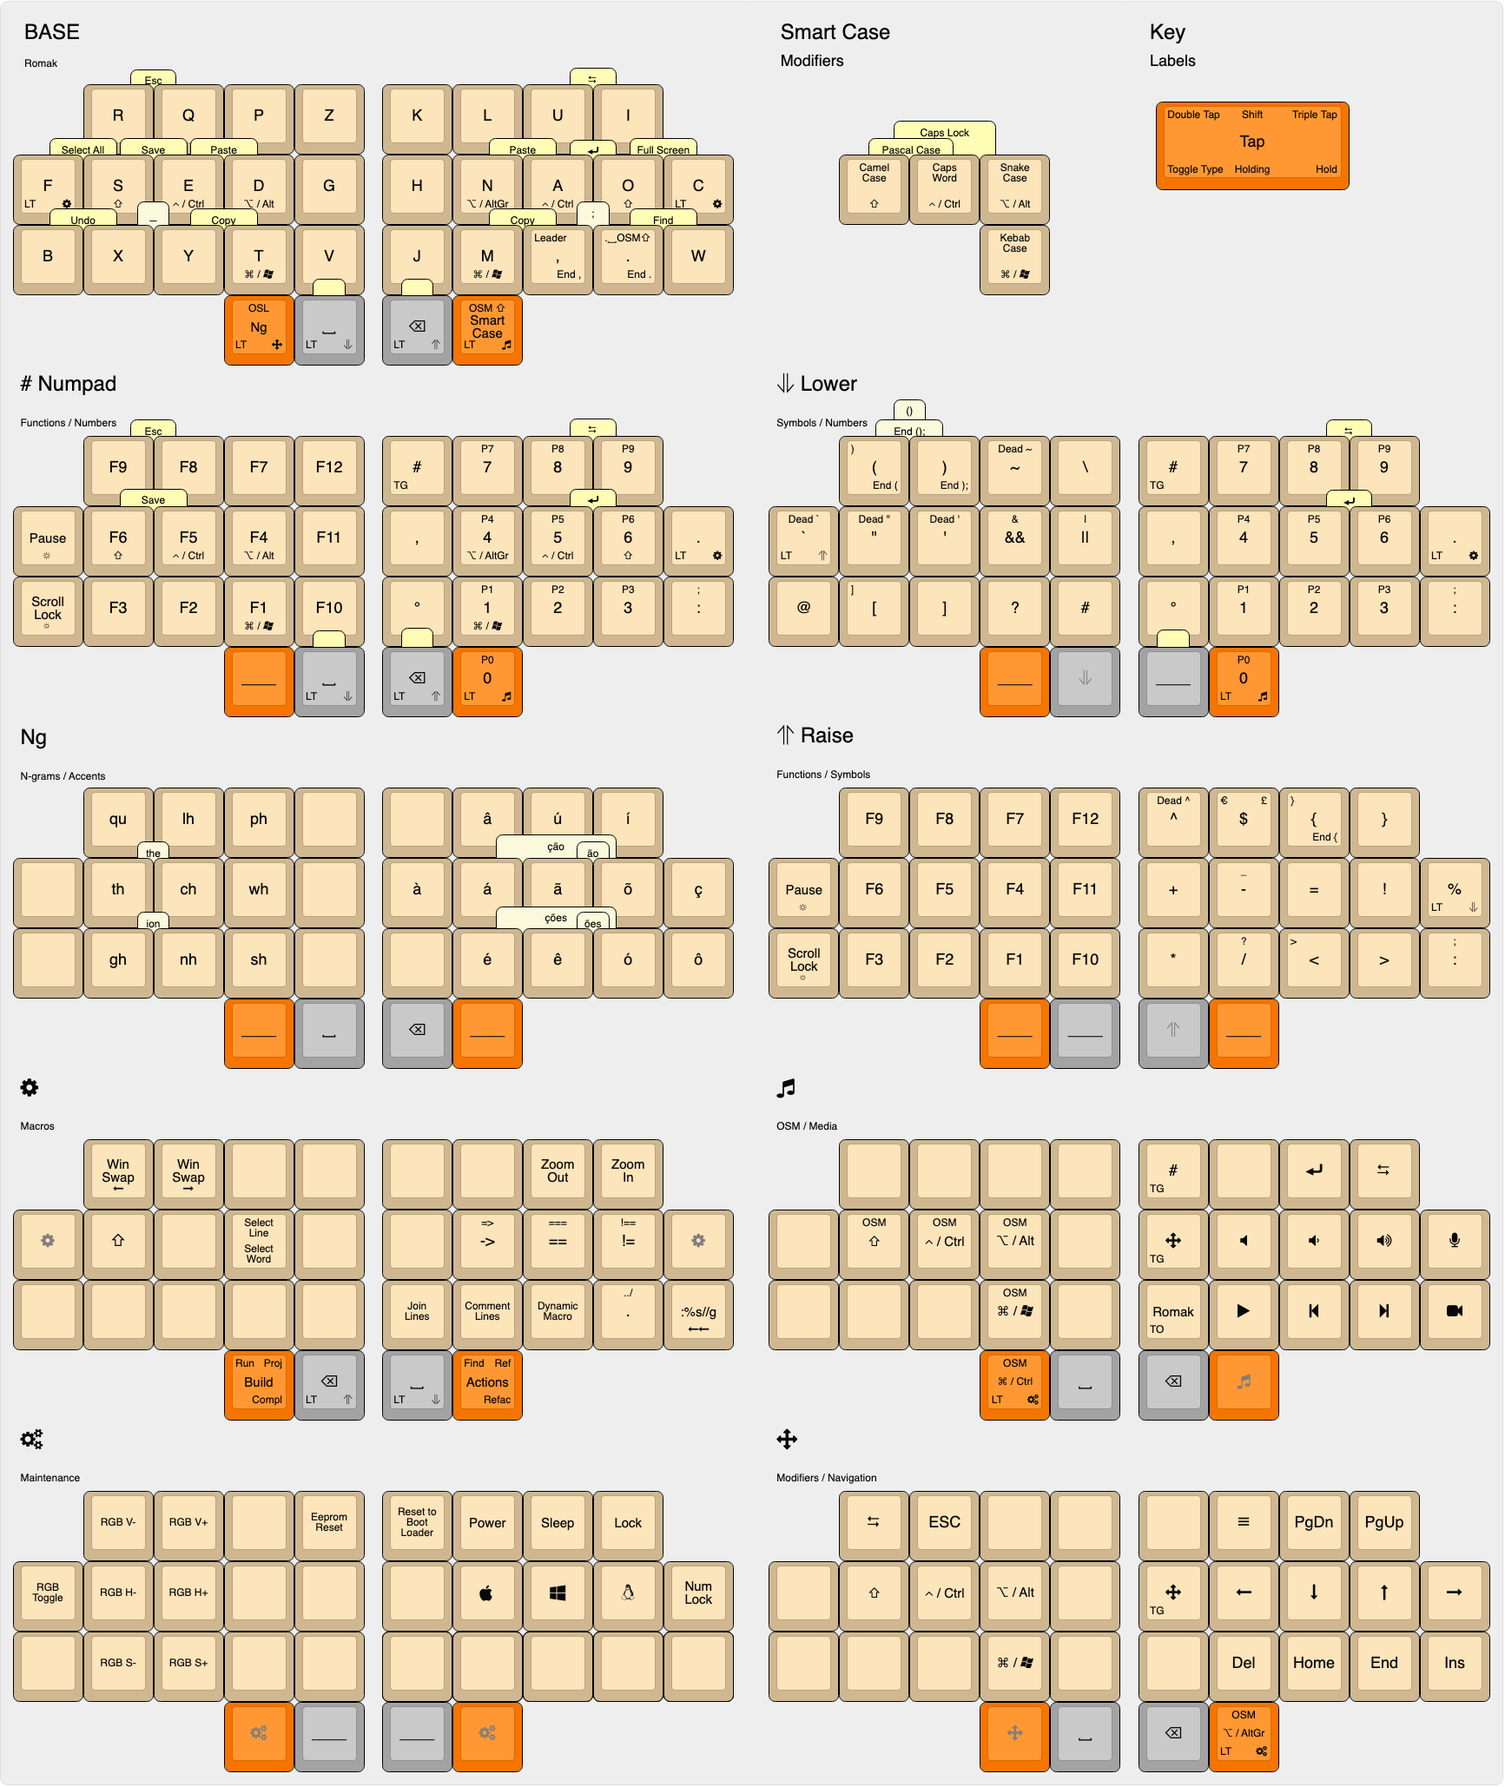
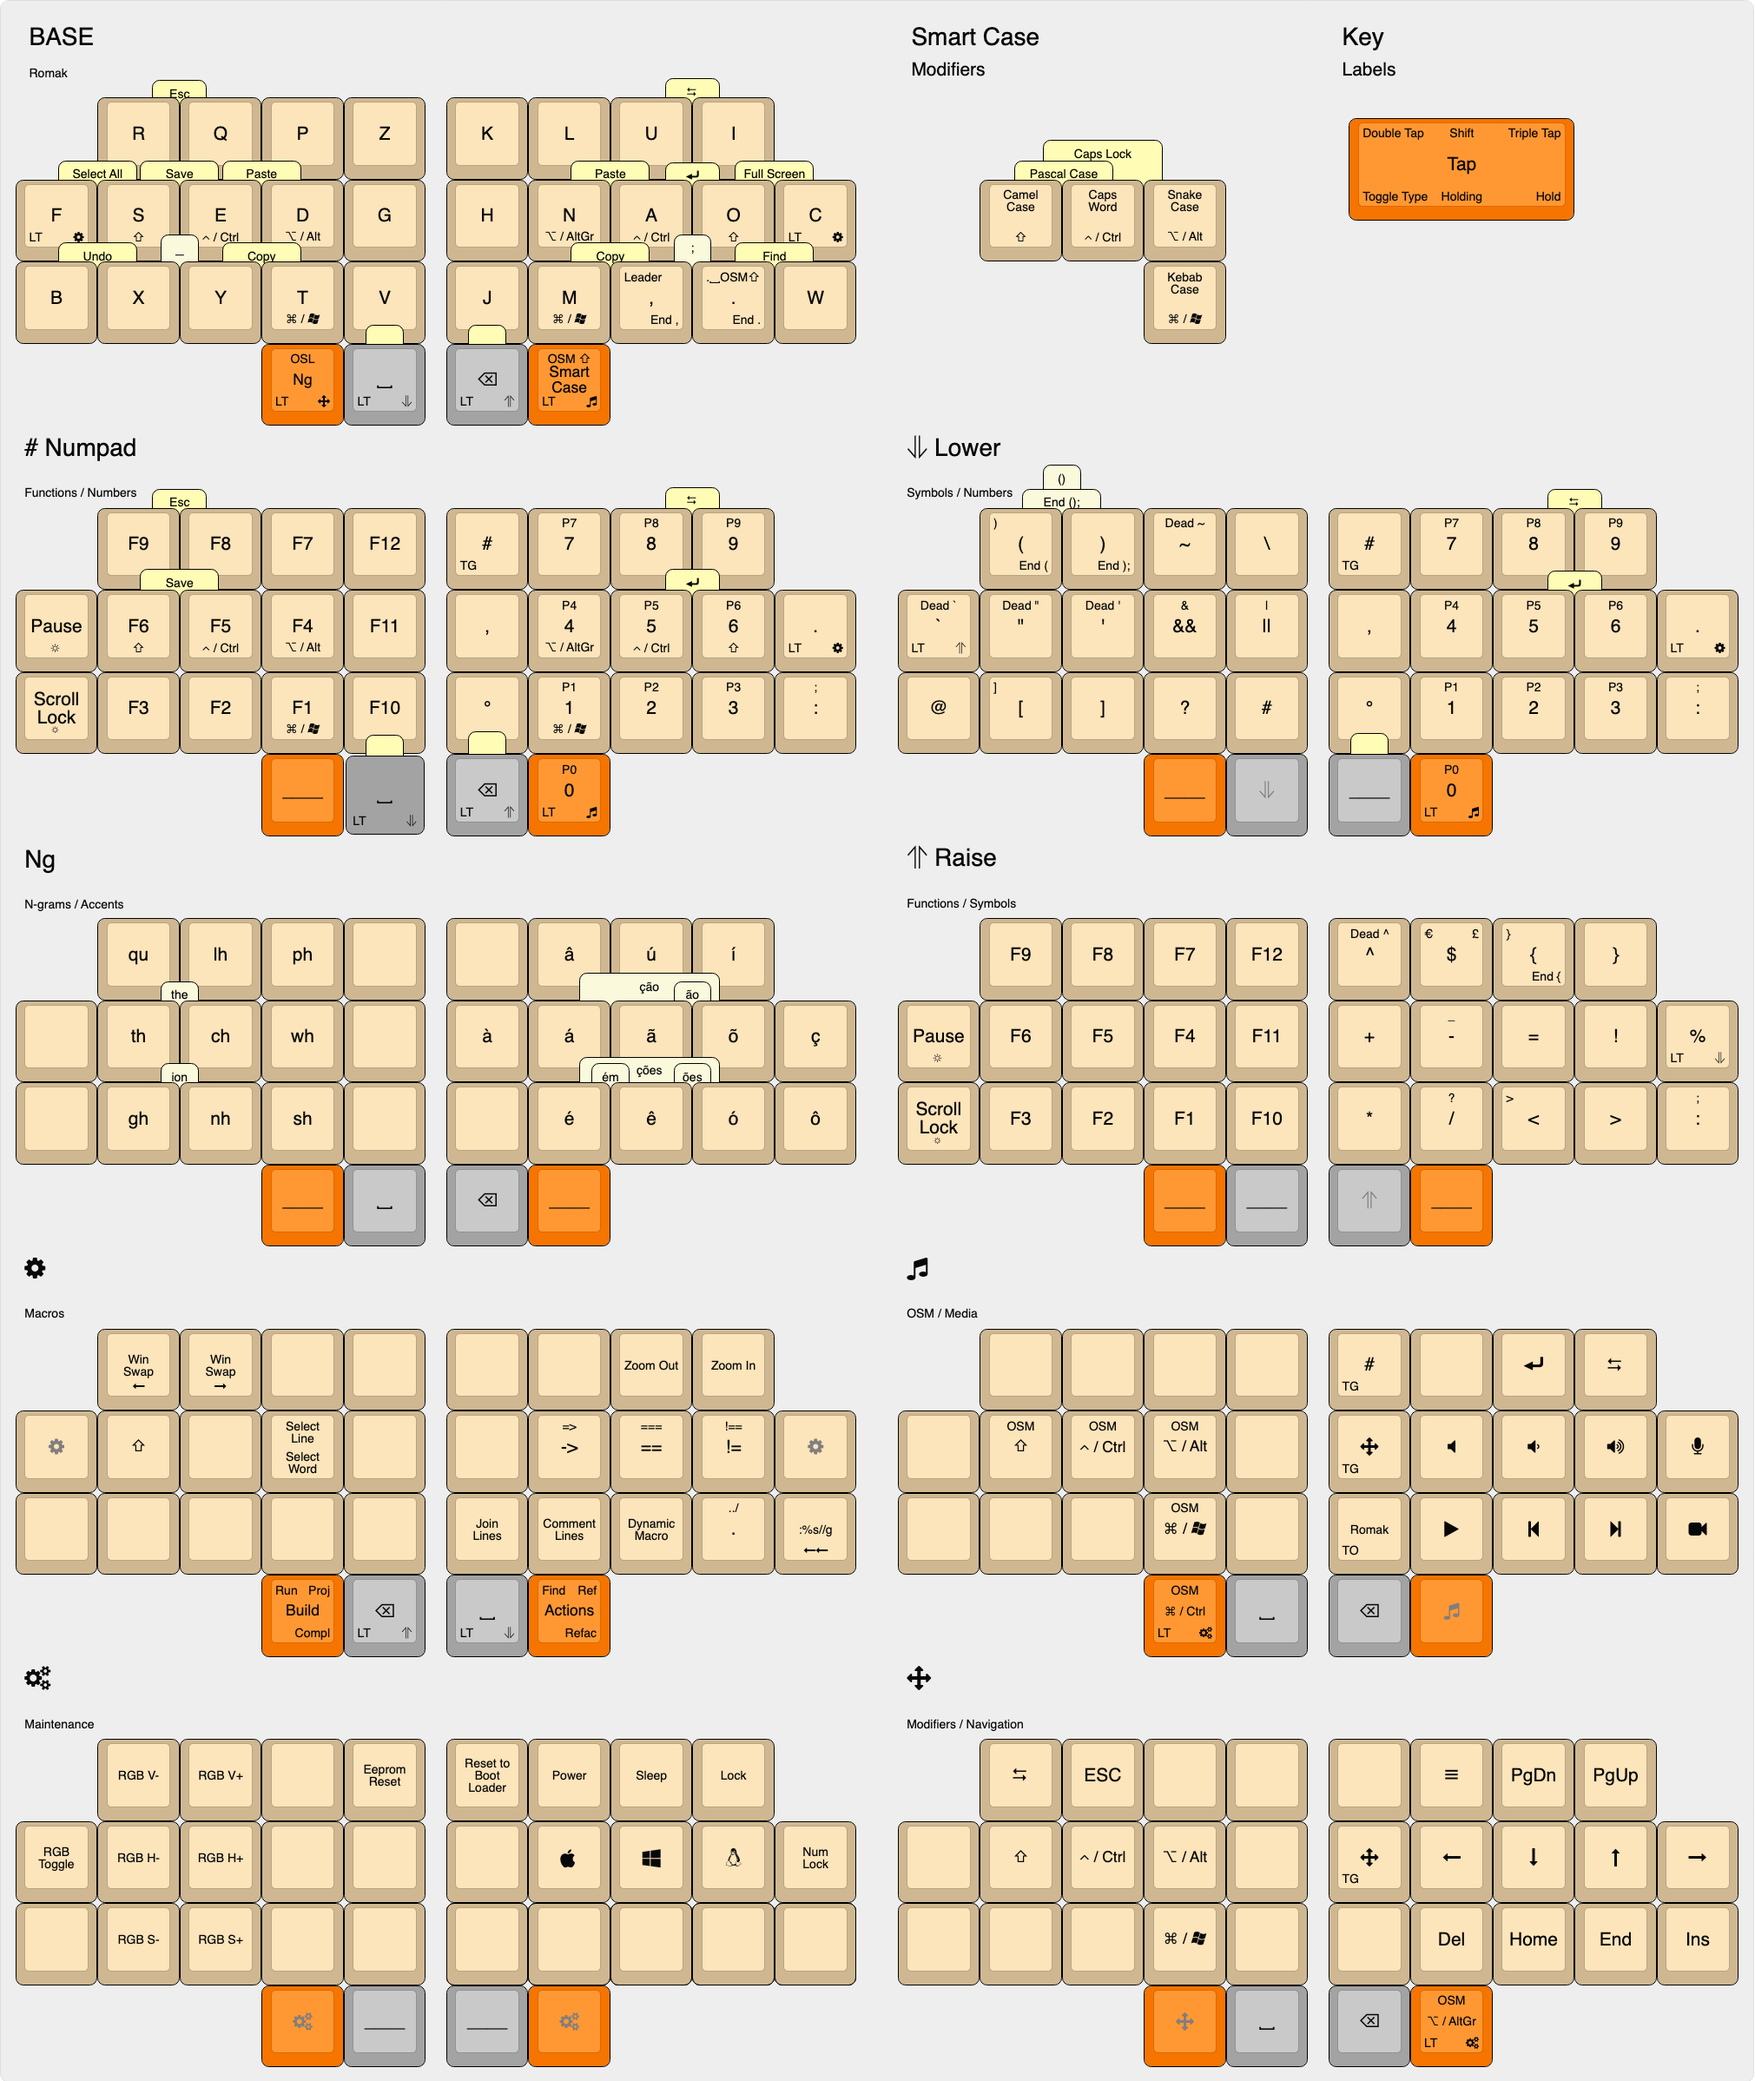
add ém bigram

diff --git a/src/qmk/users/rafaelromao/features/combos.c b/src/qmk/users/rafaelromao/features/combos.c
@@ -22,6 +22,7 @@ const uint16_t PROGMEM r_ng_ao_combo[]   = {MC_TL_A, MC_TL_O, COMBO_END};
 const uint16_t PROGMEM r_ng_cao_combo[]  = {MC_SQ_A, MC_TL_A, MC_TL_O, COMBO_END};
 const uint16_t PROGMEM r_ng_oes_combo[]  = {MC_CR_E, MC_SQ_O, COMBO_END};
 const uint16_t PROGMEM r_ng_coes_combo[] = {MC_SQ_E, MC_CR_E, MC_SQ_O, COMBO_END};
+const uint16_t PROGMEM r_ng_em_combo[]   = {MC_SQ_E, MC_CR_E, COMBO_END};
 
 // Qwerty
 
@@ -113,6 +114,7 @@ combo_t key_combos[COMBO_COUNT] = {
     COMBO(r_ng_cao_combo, MC_CAO),
     COMBO(r_ng_oes_combo, MC_OES),
     COMBO(r_ng_coes_combo, MC_COES),
+    COMBO(r_ng_em_combo, MC_EM),
 
     // COMBO(r_qwe_ful_combo, MC_FULL),
     // COMBO(r_qwe_fin_combo, MC_FIND),

diff --git a/src/qmk/users/rafaelromao/definitions/keycodes.h b/src/qmk/users/rafaelromao/definitions/keycodes.h
@@ -66,7 +66,7 @@ enum {
     MC_SQ_U, MC_CR_O, MC_SQ_O, MC_SQ_I,
     MC_CR_E, MC_TL_O, MC_SQ_C, MC_SQ_E,
 
-    MC_QU,  MC_LH,  MC_PH,        
+    MC_QU,  MC_LH,  MC_PH,  
     MC_TH,  MC_CH,  MC_WH,  MC_THE,        
     MC_GH,  MC_NH,  MC_SH,  MC_ION,      
 
@@ -74,7 +74,7 @@ enum {
     MC_EQU, MC_NEQ, 
     MC_ARR, MC_DDS, MC_CPR,
 
-    MC_AO, MC_CAO, MC_OES, MC_COES,
+    MC_AO, MC_CAO, MC_OES, MC_COES, MC_EM,      
     
     STR_MACRO_END,
 

diff --git a/src/qmk/users/rafaelromao/features/macros.c b/src/qmk/users/rafaelromao/features/macros.c
@@ -192,6 +192,12 @@ process_record_result_t process_macros(uint16_t keycode, keyrecord_t *record) {
             tap_code(KC_E);
             tap_code(KC_S);
             return PROCESS_RECORD_RETURN_FALSE;
+        case MC_EM:
+            clear_shift();
+            tap_code16(KC_QUOT);
+            tap_code(KC_E);
+            tap_code(KC_M);
+            return PROCESS_RECORD_RETURN_FALSE;
 
             // N-Grams
 

diff --git a/src/qmk/users/rafaelromao/config.h b/src/qmk/users/rafaelromao/config.h
@@ -23,7 +23,7 @@
 #define LEADER_NO_TIMEOUT
 
 // Configure combos
-#define COMBO_COUNT 28
+#define COMBO_COUNT 29
 #define COMBO_TERM 30
 #define EXTRA_SHORT_COMBOS
 #define COMBO_STRICT_TIMER
